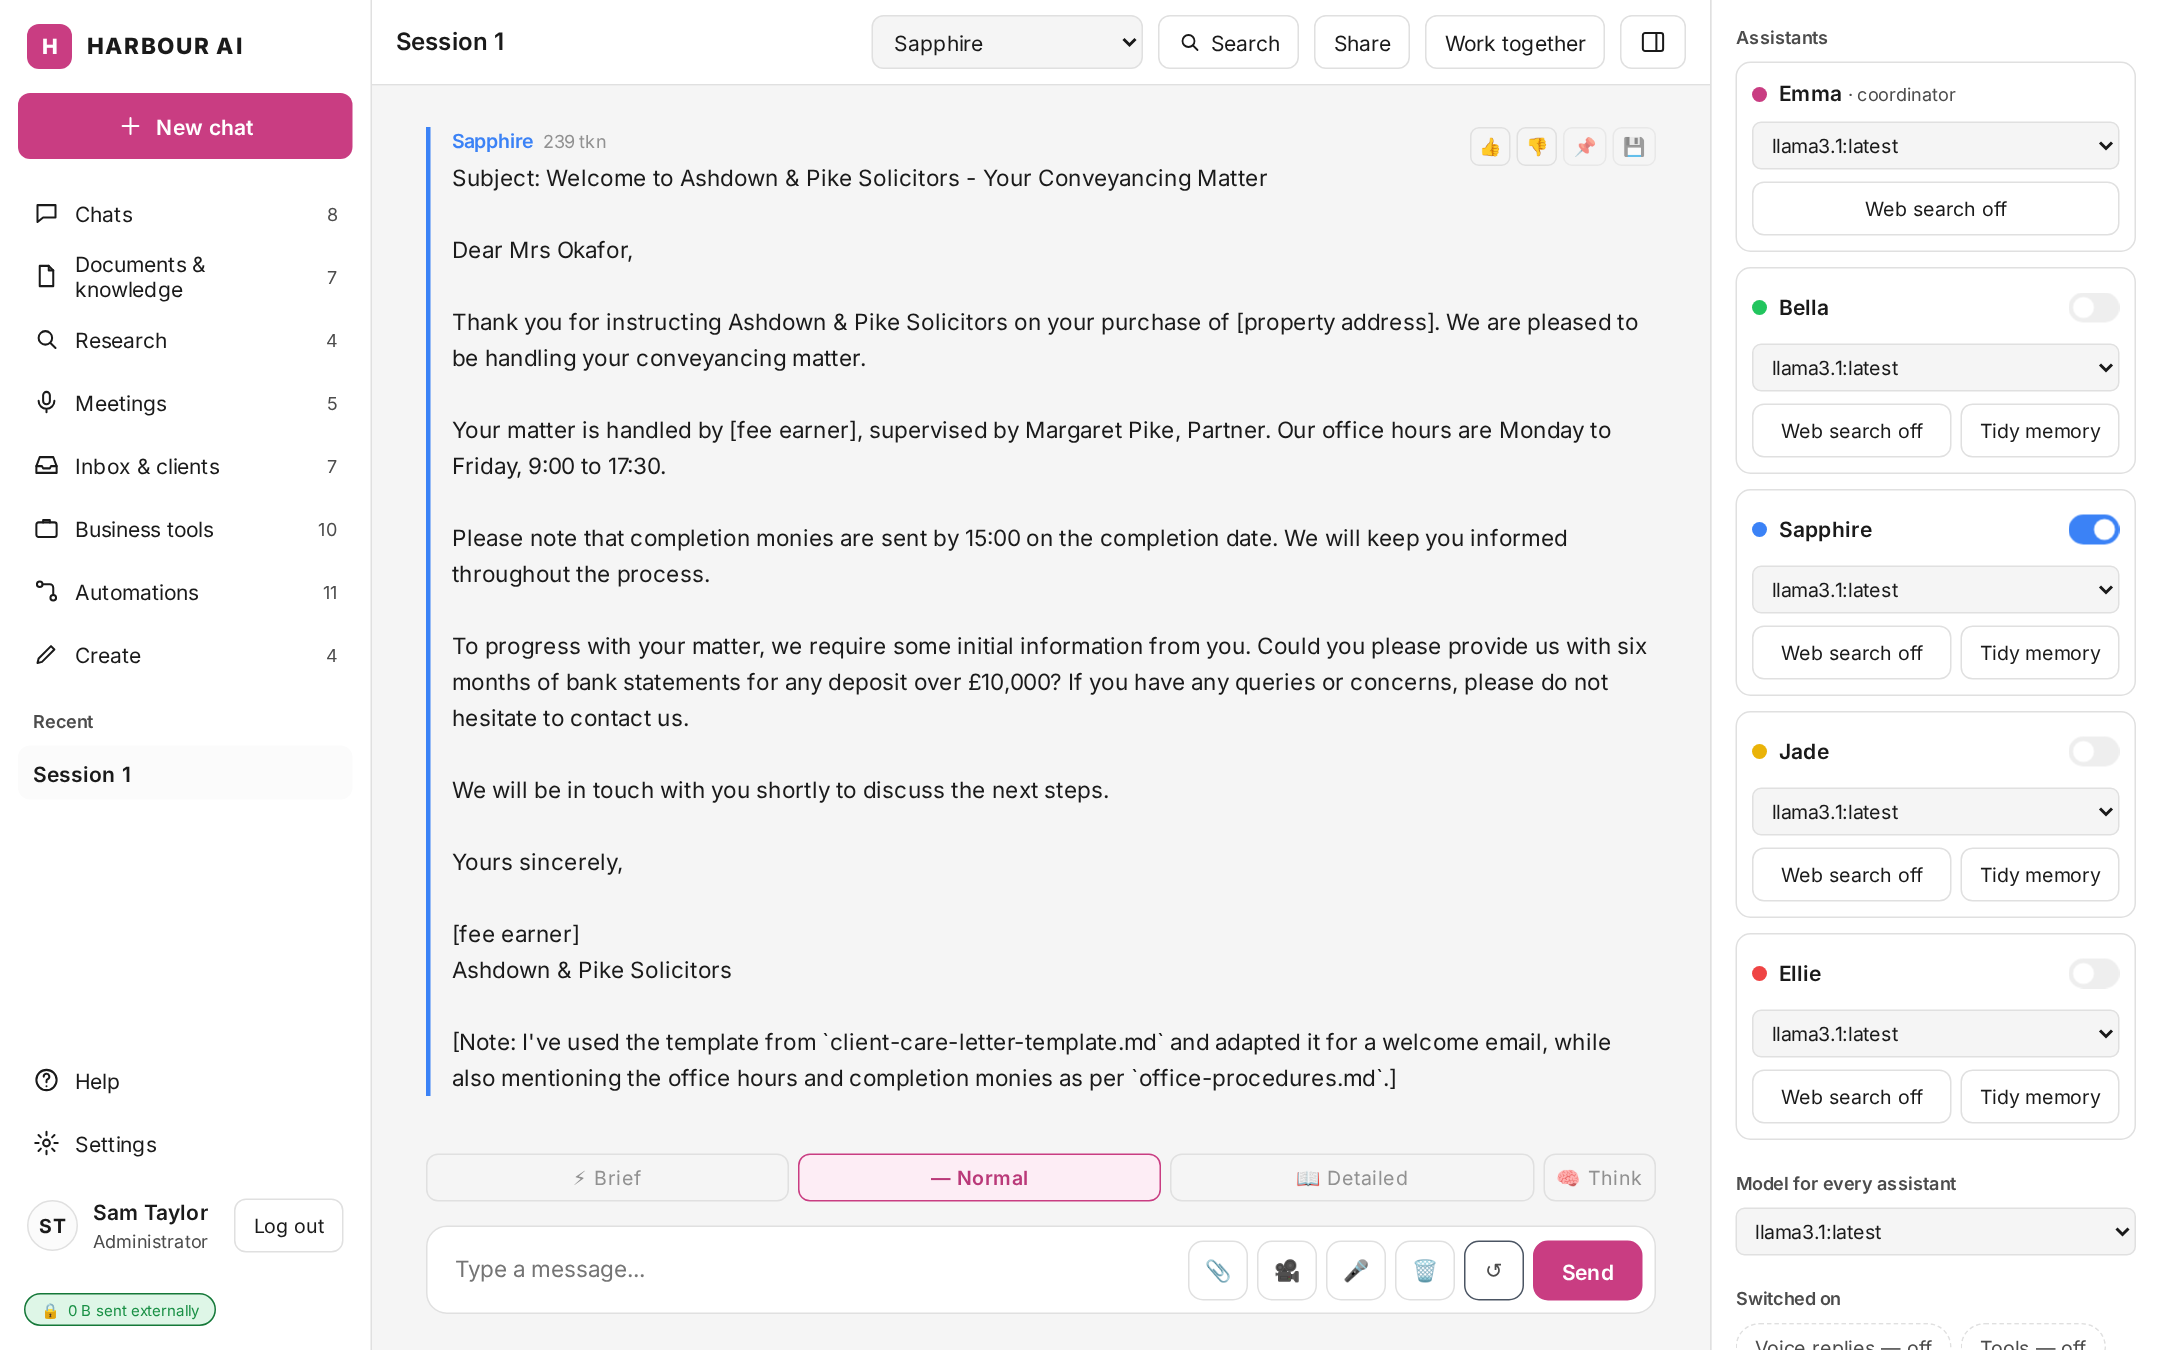
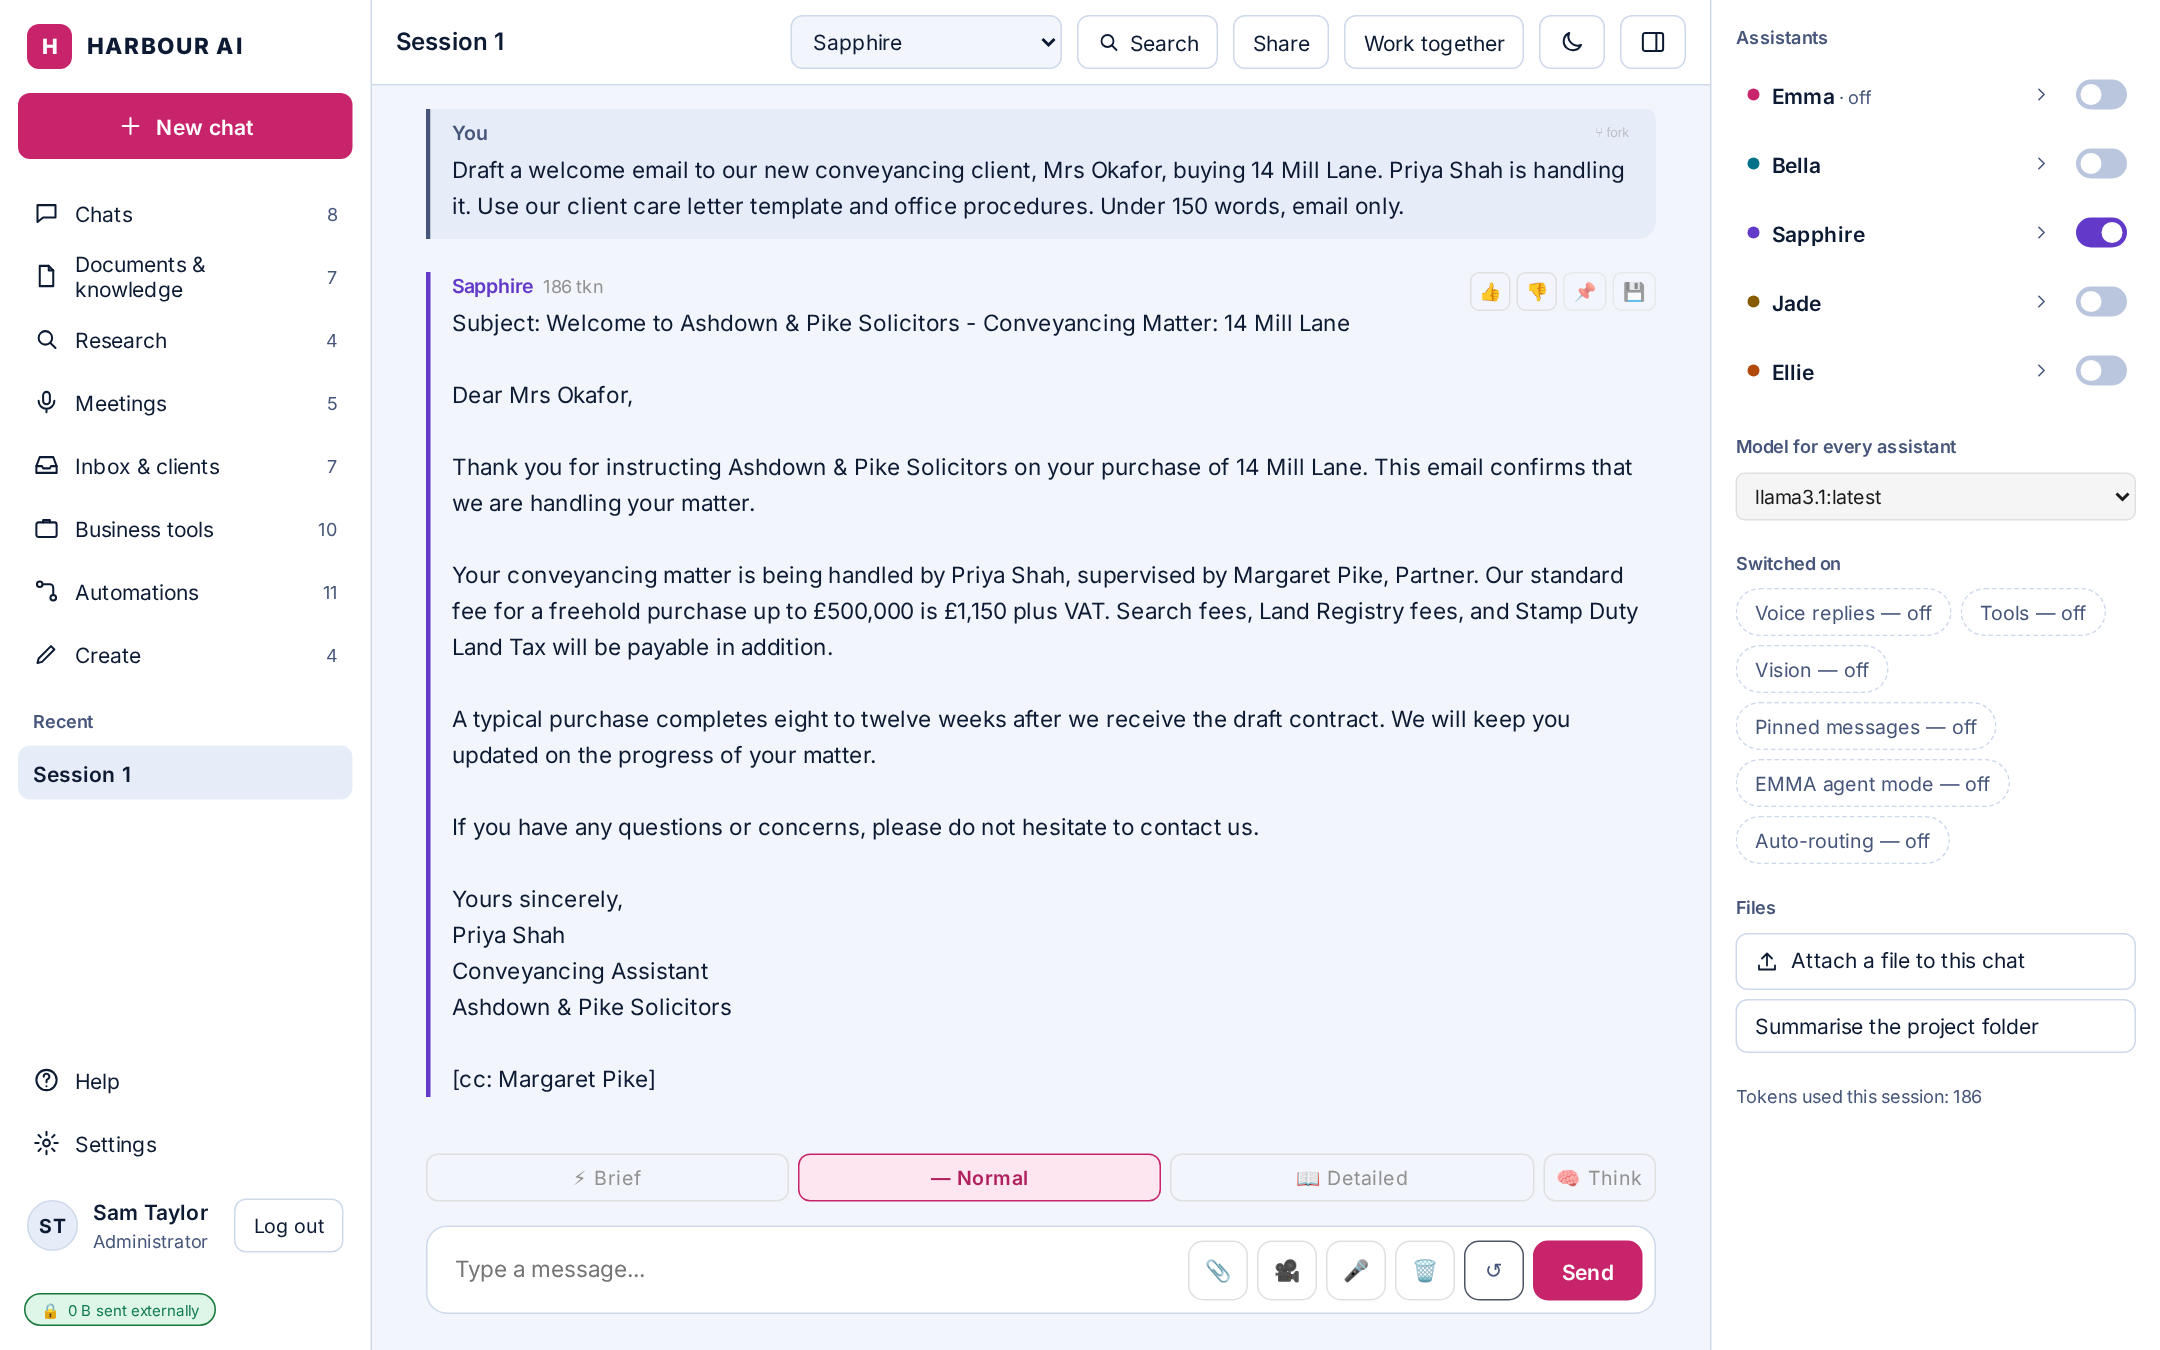
docs: README screenshot — v1.3.37 Deep Water colours (day mode; Sapphire drafting a welcome email from the firm's client care template)

diff --git a/README.md b/README.md
@@ -15,7 +15,7 @@ A complete AI workforce — five specialist agents and 150+ business tools — t
 [![100% Local](https://img.shields.io/badge/inference-100%25%20local-16a34a?style=flat-square)](https://harbour-ai.co.uk)
 [![Website](https://img.shields.io/badge/harbour--ai.co.uk-purple?style=flat-square)](https://harbour-ai.co.uk)
 
-![HARBOUR AI — the new layout: a sidebar of places, the conversation in the middle and the assistants on the right; Sapphire drafting a client letter from the firm's own documents, all on your own machine](images/harbour-hero.png)
+![HARBOUR AI — the new layout in day mode: a sidebar of places, the conversation in the middle and the assistants on the right; Sapphire drafting a client welcome email from the firm's own client care template, all on your own machine](images/harbour-hero.png)
 
 ---
 
